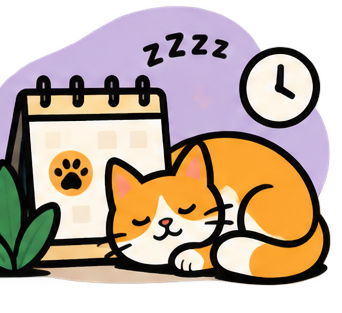
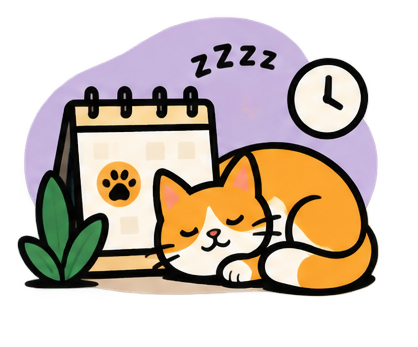
feat: add illustrations across onboarding, restock, vet, and inventory
Add hero illustrations to vaccination and remaining onboarding screens
Add restock modal illustration and food-name pill
Add appointment-history empty-state illustration
Replace inventory stock icon with food illustrations
Fix illustration sizing and aspect-ratio regressions
Fix weight ruler pointer alignment
Fix excess top spacing on weight screen

diff --git a/app/(app)/add-restock.tsx b/app/(app)/add-restock.tsx
@@ -1,5 +1,5 @@
 import React, { useState } from "react";
-import { View, Text, TextInput, StyleSheet, Pressable } from "react-native";
+import { View, Text, TextInput, Image, StyleSheet, Pressable } from "react-native";
 import { router, useLocalSearchParams } from "expo-router";
 import { SafeAreaView } from "react-native-safe-area-context";
 import { X } from "@/components/icons";
@@ -54,7 +54,17 @@ export default function AddRestock() {
         </Pressable>
       </View>
 
-      {!!foodName && <Text style={styles.forFood}>For {foodName}</Text>}
+      {!!foodName && (
+        <View style={styles.forFoodPill}>
+          <Text style={styles.forFoodPillText}>For {foodName}</Text>
+        </View>
+      )}
+
+      <Image
+        source={require("../../assets/illustrations/food-restock.png")}
+        style={styles.heroIllustration}
+        resizeMode="contain"
+      />
 
       <Text style={styles.label}>Quick sizes</Text>
       <View style={styles.chipRow}>
@@ -95,7 +105,12 @@ const styles = StyleSheet.create({
   headerRow: { flexDirection: "row", justifyContent: "space-between", alignItems: "center", marginBottom: 18 },
   title: { fontFamily: fonts.display, fontSize: 19, color: colors.ink },
   closeBtn: { backgroundColor: colors.surface, borderRadius: 10, borderWidth: 2, borderColor: colors.ink, padding: 6 },
-  forFood: { fontFamily: fonts.bodyMedium, fontSize: 13, color: colors.inkSoft, marginBottom: 16 },
+  forFoodPill: {
+    alignSelf: "center", backgroundColor: colors.accent, borderRadius: 999,
+    borderWidth: 2, borderColor: colors.ink, paddingVertical: 6, paddingHorizontal: 14, marginBottom: 4,
+  },
+  forFoodPillText: { fontFamily: fonts.labelBold, fontSize: 12, color: colors.ink },
+  heroIllustration: { width: 170, height: 170, alignSelf: "center", marginTop: 4, marginBottom: 16 },
   label: { fontFamily: fonts.labelBold, fontSize: 14, color: colors.ink, marginBottom: 8, marginTop: 4 },
   chipRow: { flexDirection: "row", flexWrap: "wrap", gap: 8, marginBottom: 18 },
   input: {

diff --git a/app/(app)/appointment-history.tsx b/app/(app)/appointment-history.tsx
@@ -1,5 +1,5 @@
 import React from "react";
-import { View, Text, StyleSheet, ScrollView, Pressable } from "react-native";
+import { View, Text, Image, StyleSheet, ScrollView, Pressable } from "react-native";
 import { router } from "expo-router";
 import { SafeAreaView } from "react-native-safe-area-context";
 import { ChevronLeft, Calendar, MoreVertical } from "@/components/icons";
@@ -28,7 +28,14 @@ export default function AppointmentHistory() {
         <Text style={styles.sub}>{record?.pet.name ? `${record.pet.name}'s past visits` : "Past visits"}</Text>
 
         {past.length === 0 ? (
-          <Text style={styles.emptyText}>No past appointments yet.</Text>
+          <View style={styles.empty}>
+            <Image
+              source={require("../../assets/illustrations/medical-record.png")}
+              style={styles.emptyIllustration}
+              resizeMode="contain"
+            />
+            <Text style={styles.emptyText}>No past appointments yet.</Text>
+          </View>
         ) : (
           <View style={{ gap: 10 }}>
             {past.map((a) => (
@@ -69,7 +76,9 @@ const styles = StyleSheet.create({
   iconBtn: { width: 36, height: 36, borderRadius: 12, backgroundColor: colors.surface, borderWidth: 2, borderColor: colors.ink, alignItems: "center", justifyContent: "center" },
   title: { fontFamily: fonts.display, fontSize: 18, color: colors.ink },
   sub: { fontFamily: fonts.body, fontSize: 13, color: colors.inkSoft, marginBottom: 20, marginTop: 4 },
-  emptyText: { color: colors.inkSoft, fontSize: 13.5, textAlign: "center", fontFamily: fonts.body, marginTop: 30 },
+  empty: { alignItems: "center", marginTop: 20 },
+  emptyIllustration: { width: 120, height: 100, marginBottom: 8 },
+  emptyText: { color: colors.inkSoft, fontSize: 13.5, textAlign: "center", fontFamily: fonts.body },
   apptRow: {
     flexDirection: "row", alignItems: "center", gap: 12, padding: 12, borderRadius: 14,
     backgroundColor: colors.surface, borderWidth: 2, borderColor: colors.ink,

diff --git a/app/(app)/(tabs)/inventory.tsx b/app/(app)/(tabs)/inventory.tsx
@@ -2,7 +2,7 @@ import React from "react";
 import { View, Text, StyleSheet, ScrollView, Pressable, Alert, Image } from "react-native";
 import { router } from "expo-router";
 import { SafeAreaView } from "react-native-safe-area-context";
-import { Package, Plus, AlertCircle, MoreVertical } from "@/components/icons";
+import { Plus, AlertCircle, MoreVertical } from "@/components/icons";
 import { PetSwitcherHeader } from "@/components/ui/PetSwitcherHeader";
 import { NeoBox } from "@/components/ui/NeoBox";
 import { useAppStore } from "@/store/useAppStore";
@@ -119,7 +119,15 @@ function FoodStockCard({
       </View>
 
       <NeoBox depth={4} radius={24} style={styles.card}>
-        <Package size={26} color={low ? colors.rose : colors.ink} />
+        <Image
+          source={
+            food.category === "dry"
+              ? require("../../../assets/illustrations/dry-food-stock.png")
+              : require("../../../assets/illustrations/wet-food-stock.png")
+          }
+          style={styles.stockIllustration}
+          resizeMode="contain"
+        />
         <Text style={styles.remaining}>{remaining}g</Text>
         <Text style={styles.remainingLabel}>remaining in stock</Text>
         {daysLeft !== null ? (
@@ -174,6 +182,7 @@ const styles = StyleSheet.create({
     alignItems: "center", justifyContent: "center", backgroundColor: colors.surface,
   },
   card: { paddingVertical: 24, alignItems: "center", marginBottom: 14, gap: 4 },
+  stockIllustration: { width: 50, height: 51},
   remaining: { fontFamily: fonts.monoSemibold, fontSize: 30, color: colors.ink, marginTop: 6 },
   remainingLabel: { fontFamily: fonts.body, fontSize: 12, color: colors.inkSoft, marginBottom: 8 },
   daysPill: {

diff --git a/app/(app)/(tabs)/_layout.tsx b/app/(app)/(tabs)/_layout.tsx
@@ -8,7 +8,7 @@ import { colors, fonts } from "@/theme/tokens";
 function FloatingTabBar({ state, descriptors, navigation }: BottomTabBarProps) {
   const insets = useSafeAreaInsets();
   const { width: screenWidth } = useWindowDimensions();
-  const barWidth = Math.min(Math.max(screenWidth - 40, 280), 520);
+  const barWidth = Math.min(Math.max(screenWidth - 40, 280), 300);
 
   return (
     <View
@@ -18,10 +18,10 @@ function FloatingTabBar({ state, descriptors, navigation }: BottomTabBarProps) {
       <View
         style={{
           width: barWidth,
-          height: 54,
+          height: 70,
           flexDirection: "row",
           alignItems: "center",
-          paddingHorizontal: 6,
+          paddingHorizontal: 5,
           paddingVertical: 6,
           borderRadius: 999,
           backgroundColor: colors.ink,
@@ -29,14 +29,14 @@ function FloatingTabBar({ state, descriptors, navigation }: BottomTabBarProps) {
           shadowOffset: { width: 0, height: 6 },
           shadowOpacity: 0.25,
           shadowRadius: 12,
-          elevation: 10,
+          elevation: 12,
         }}
       >
         {state.routes.map((route, index) => {
           const options = descriptors[route.key].options;
           const focused = state.index === index;
           const label = typeof options.tabBarLabel === "string" ? options.tabBarLabel : options.title ?? route.name;
-          const icon = options.tabBarIcon?.({ focused, color: focused ? colors.accent : "#8A8078", size: 19 });
+          const icon = options.tabBarIcon?.({ focused, color: focused ? colors.accent : "#8A8078", size: 22 });
 
           return (
             <TouchableOpacity

diff --git a/app/(onboarding)/pet-type.tsx b/app/(onboarding)/pet-type.tsx
@@ -1,5 +1,5 @@
 import React from "react";
-import { View, Text, TextInput, StyleSheet, ScrollView, Pressable } from "react-native";
+import { View, Text, TextInput, Image, StyleSheet, ScrollView, Pressable } from "react-native";
 import { router } from "expo-router";
 import { SafeAreaView } from "react-native-safe-area-context";
 import { ChevronLeft, ChevronRight, Dog, Cat } from "@/components/icons";
@@ -35,6 +35,11 @@ export default function PetTypeStep() {
       </View>
 
       <ScrollView contentContainerStyle={styles.content} keyboardShouldPersistTaps="handled">
+        <Image
+          source={require("../../assets/illustrations/feeding-who.png")}
+          style={styles.heroIllustration}
+          resizeMode="contain"
+        />
         <View style={styles.titleWrap}>
           <Text style={styles.title}>Who are we feeding?</Text>
           <Text style={styles.sub}>Tell us a bit about your companion so we can tailor their experience.</Text>
@@ -94,6 +99,7 @@ const styles = StyleSheet.create({
   dot: { width: 8, height: 8, borderRadius: 999, backgroundColor: colors.track, borderWidth: 1.5, borderColor: colors.ink },
   dotActive: { backgroundColor: colors.accent, width: 16 },
   content: { paddingHorizontal: 20, paddingTop: 24, paddingBottom: 40 },
+  heroIllustration: { width: 150, height: 143, alignSelf: "center", marginBottom: 8 },
   titleWrap: { alignItems: "center", marginBottom: 32 },
   title: { fontFamily: fonts.headlineLg, fontSize: 28, color: colors.ink, textAlign: "center", marginBottom: 10 },
   sub: { fontFamily: fonts.body, fontSize: 15, color: colors.inkSoft, textAlign: "center", lineHeight: 22 },

diff --git a/app/(onboarding)/pet-weight.tsx b/app/(onboarding)/pet-weight.tsx
@@ -1,5 +1,5 @@
 import React, { useState } from "react";
-import { View, Text, StyleSheet, Pressable } from "react-native";
+import { View, Text, Image, StyleSheet, Pressable } from "react-native";
 import { router } from "expo-router";
 import { SafeAreaView } from "react-native-safe-area-context";
 import { ChevronLeft, ChevronRight } from "@/components/icons";
@@ -38,6 +38,11 @@ export default function PetWeightStep() {
       </View>
 
       <View style={styles.content}>
+        <Image
+          source={require("../../assets/illustrations/weight-scale.png")}
+          style={styles.heroIllustration}
+          resizeMode="contain"
+        />
         <View style={styles.titleWrap}>
           <Text style={styles.title}>What's their current weight?</Text>
           <Text style={styles.sub}>This helps us calculate the perfect portion size.</Text>
@@ -72,7 +77,8 @@ const styles = StyleSheet.create({
   dots: { flexDirection: "row", gap: 6 },
   dot: { width: 8, height: 8, borderRadius: 999, backgroundColor: colors.track, borderWidth: 1.5, borderColor: colors.ink },
   dotActive: { backgroundColor: colors.accent, width: 16 },
-  content: { flex: 1, paddingHorizontal: 20, paddingTop: 20, justifyContent: "center" },
+  content: { flex: 1, paddingHorizontal: 20, paddingTop: 16 },
+  heroIllustration: { width: 136, height: 112, alignSelf: "center", marginBottom: 4 },
   titleWrap: { alignItems: "center", marginBottom: 36 },
   title: { fontFamily: fonts.headlineLg, fontSize: 24, color: colors.ink, textAlign: "center", marginBottom: 8 },
   sub: { fontFamily: fonts.body, fontSize: 14, color: colors.inkSoft, textAlign: "center" },

diff --git a/app/(onboarding)/medical.tsx b/app/(onboarding)/medical.tsx
@@ -1,5 +1,5 @@
 import React from "react";
-import { View, Text, TextInput, StyleSheet, ScrollView } from "react-native";
+import { View, Text, TextInput, Image, StyleSheet, ScrollView } from "react-native";
 import { router } from "expo-router";
 import { ChevronRight, FileText } from "@/components/icons";
 import { ScreenTitle } from "@/components/ui/ScreenTitle";
@@ -25,6 +25,11 @@ export default function MedicalStep() {
     <View style={styles.screen}>
       <NeoOnboardHeader step={7} total={9} />
       <ScrollView contentContainerStyle={styles.content}>
+        <Image
+          source={require("../../assets/illustrations/medical-history.png")}
+          style={styles.heroIllustration}
+          resizeMode="contain"
+        />
         <ScreenTitle title="Any medical history?" sub="Optional — skip this if nothing applies. You can always add it later." />
         <View style={styles.wrap}>
           {MEDICAL_TAGS.map((t) => (
@@ -51,6 +56,7 @@ export default function MedicalStep() {
 const styles = StyleSheet.create({
   screen: { flex: 1, backgroundColor: colors.appBg },
   content: { paddingHorizontal: 24, paddingTop: 8, paddingBottom: 32, flexGrow: 1 },
+  heroIllustration: { width: 150, height: 113, alignSelf: "center", marginBottom: 4 },
   wrap: { flexDirection: "row", flexWrap: "wrap", gap: 10, marginBottom: 18 },
   label: { fontFamily: fonts.labelBold, fontSize: 14, color: colors.ink, marginBottom: 8 },
   textarea: {

diff --git a/app/(onboarding)/vaccination.tsx b/app/(onboarding)/vaccination.tsx
@@ -1,5 +1,5 @@
 import React from "react";
-import { View, Text, StyleSheet, ScrollView, Pressable } from "react-native";
+import { View, Text, Image, StyleSheet, ScrollView, Pressable } from "react-native";
 import { router } from "expo-router";
 import { ChevronRight, Syringe, Check } from "@/components/icons";
 import { ScreenTitle } from "@/components/ui/ScreenTitle";
@@ -21,6 +21,11 @@ export default function VaccinationStep() {
     <View style={styles.screen}>
       <NeoOnboardHeader step={6} total={9} />
       <ScrollView contentContainerStyle={styles.content}>
+        <Image
+          source={require("../../assets/illustrations/vaccine-shield.png")}
+          style={styles.heroIllustration}
+          resizeMode="contain"
+        />
         <ScreenTitle title="Vaccination status" sub="Mark what's completed. You can add dates and boosters later from the Vet tab." />
         <View style={styles.list}>
           {core.map((v) => {
@@ -52,6 +57,7 @@ export default function VaccinationStep() {
 const styles = StyleSheet.create({
   screen: { flex: 1, backgroundColor: colors.appBg },
   content: { paddingHorizontal: 24, paddingTop: 8, paddingBottom: 32, flexGrow: 1 },
+  heroIllustration: { width: 132, height: 110, alignSelf: "center", marginBottom: 4 },
   list: { gap: 10 },
   item: {
     flexDirection: "row", alignItems: "center", justifyContent: "space-between",

diff --git a/app/(onboarding)/pet-breed.tsx b/app/(onboarding)/pet-breed.tsx
@@ -1,5 +1,5 @@
 import React from "react";
-import { View, StyleSheet, ScrollView } from "react-native";
+import { View, Image, StyleSheet, ScrollView } from "react-native";
 import { router } from "expo-router";
 import { ChevronRight } from "@/components/icons";
 import { ScreenTitle } from "@/components/ui/ScreenTitle";
@@ -19,6 +19,11 @@ export default function PetBreedStep() {
     <View style={styles.screen}>
       <NeoOnboardHeader step={3} total={9} />
       <ScrollView contentContainerStyle={styles.content}>
+        <Image
+          source={require("../../assets/illustrations/breed-select.png")}
+          style={styles.heroIllustration}
+          resizeMode="contain"
+        />
         <ScreenTitle
           title={`What breed is ${pet.name || "your pet"}?`}
           sub={`Common ${pet.type === "dog" ? "dog" : "cat"} breeds — pick the closest match.`}
@@ -43,6 +48,7 @@ export default function PetBreedStep() {
 const styles = StyleSheet.create({
   screen: { flex: 1, backgroundColor: colors.appBg },
   content: { paddingHorizontal: 24, paddingTop: 8, paddingBottom: 32, flexGrow: 1 },
+  heroIllustration: { width: 150, height: 137, alignSelf: "center", marginBottom: 4 },
   wrap: { flexDirection: "row", flexWrap: "wrap", gap: 10 },
   spacer: { flex: 1, minHeight: 24 },
 });

diff --git a/app/(onboarding)/pet-age.tsx b/app/(onboarding)/pet-age.tsx
@@ -1,5 +1,5 @@
 import React from "react";
-import { View, StyleSheet, ScrollView } from "react-native";
+import { View, Image, StyleSheet, ScrollView } from "react-native";
 import { router } from "expo-router";
 import { ChevronRight } from "@/components/icons";
 import { ScreenTitle } from "@/components/ui/ScreenTitle";
@@ -19,6 +19,11 @@ export default function PetAgeStep() {
     <View style={styles.screen}>
       <NeoOnboardHeader step={4} total={9} />
       <ScrollView contentContainerStyle={styles.content} keyboardShouldPersistTaps="handled">
+        <Image
+          source={require("../../assets/illustrations/age-birthday.png")}
+          style={styles.heroIllustration}
+          resizeMode="contain"
+        />
         <ScreenTitle
           title={`How old is ${pet.name || "your pet"}?`}
           sub="Enter their age in years. Decimals are welcome for younger pets."
@@ -45,5 +50,6 @@ export default function PetAgeStep() {
 const styles = StyleSheet.create({
   screen: { flex: 1, backgroundColor: colors.appBg },
   content: { paddingHorizontal: 24, paddingTop: 8, paddingBottom: 32, flexGrow: 1 },
+  heroIllustration: { width: 150, height: 137, alignSelf: "center", marginBottom: 4 },
   spacer: { flex: 1, minHeight: 24 },
 });

diff --git a/src/components/ui/RulerWeightPicker.tsx b/src/components/ui/RulerWeightPicker.tsx
@@ -188,10 +188,10 @@ const styles = StyleSheet.create({
   tickMajor: { width: 3, height: 40 },
   tickMinor: { width: 2, height: 20 },
   tickLabel: {
-    position: "absolute", top: 46, width: 30, marginLeft: -15, textAlign: "center",
+    position: "absolute", top: 46, width: 30, marginLeft: -1, textAlign: "center",
     fontFamily: fonts.headlineMd, fontSize: 13, color: colors.ink,
   },
-  pointerWrap: { position: "absolute", left: "50%", top: 0, marginLeft: -1, alignItems: "center" },
+  pointerWrap: { position: "absolute", left: "50%", top: 0, width: 18, marginLeft: -9, alignItems: "center" },
   pointerTriangle: {
     width: 0, height: 0, borderLeftWidth: 9, borderRightWidth: 9, borderTopWidth: 12,
     borderLeftColor: "transparent", borderRightColor: "transparent", borderTopColor: colors.accent,
